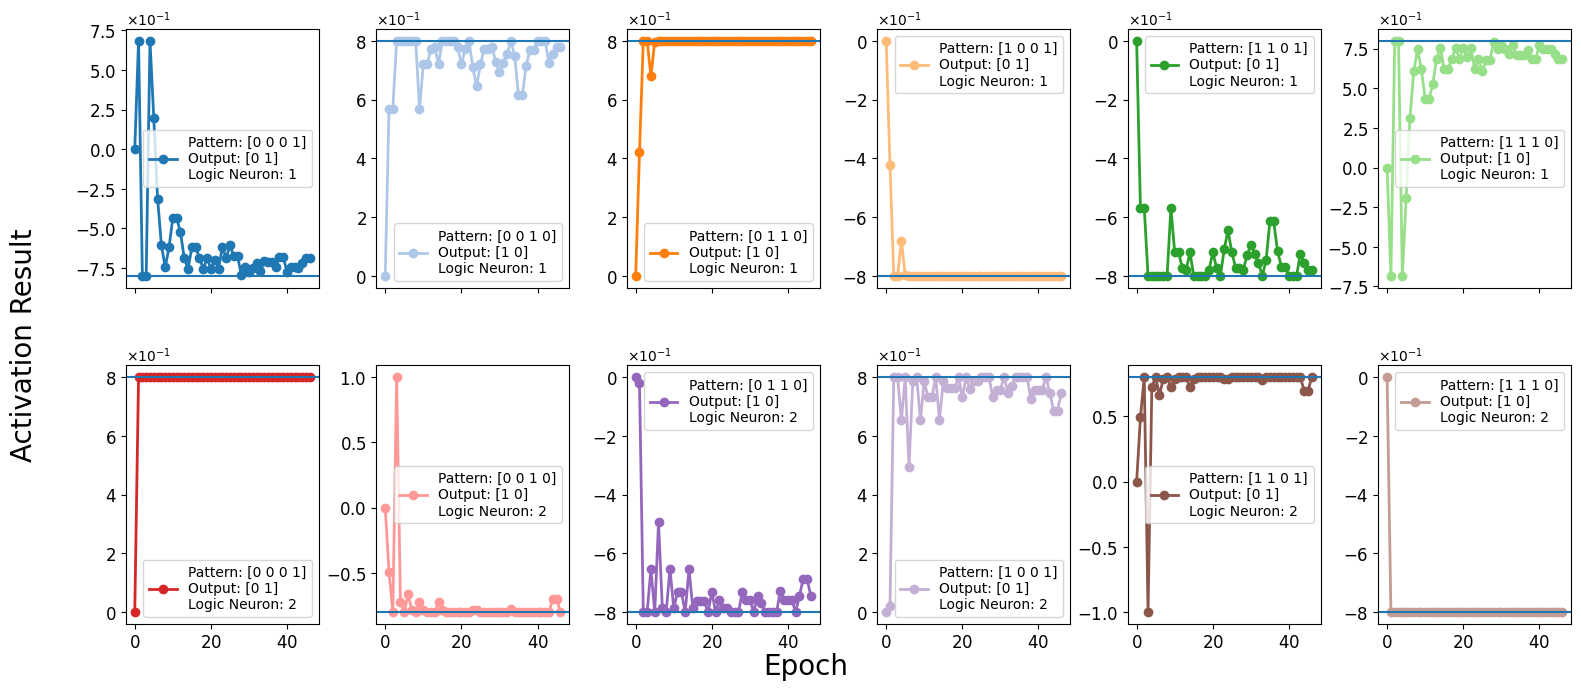
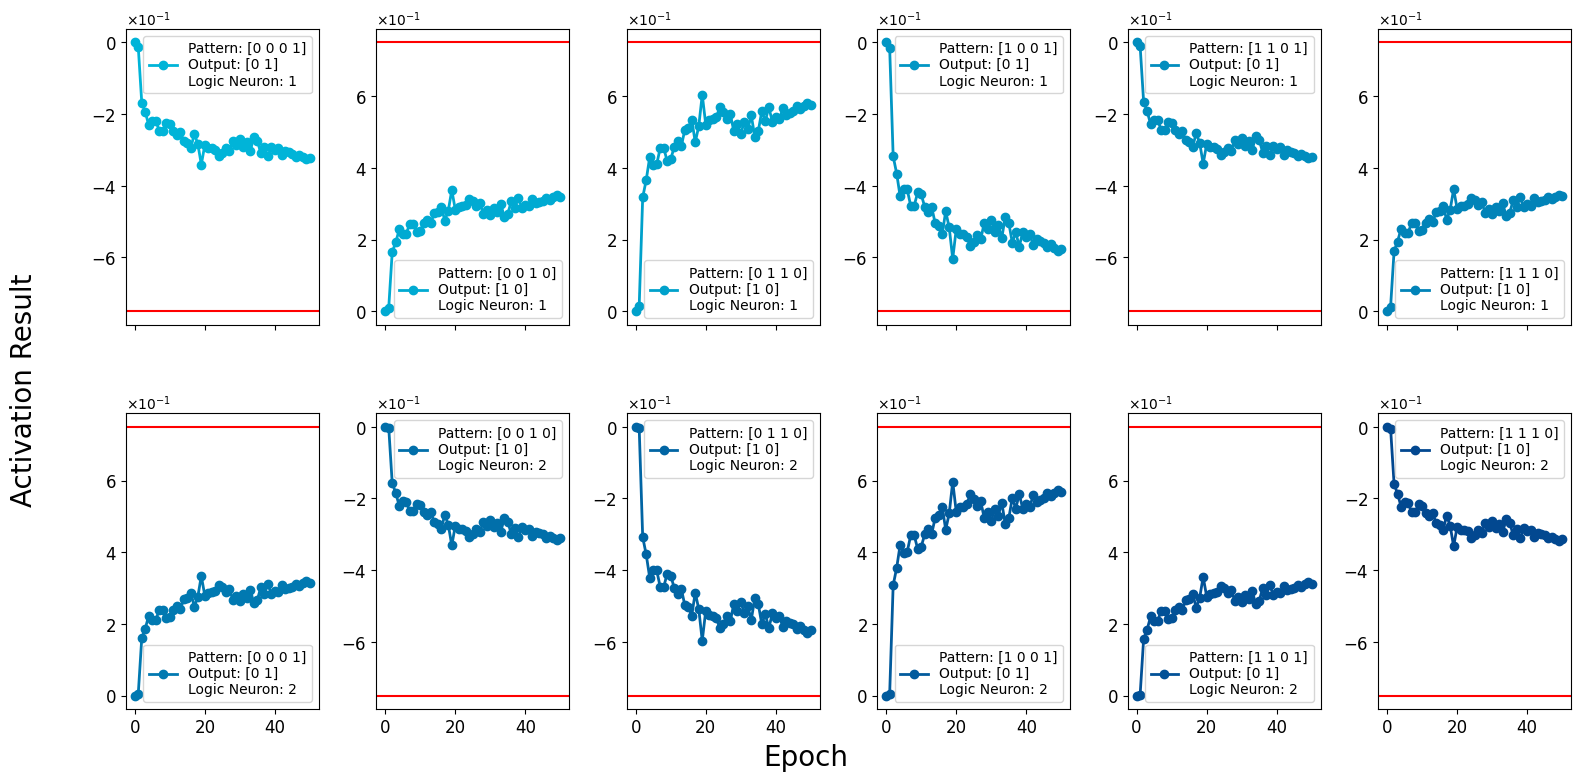
fix: Corrected documentation and example graphs to account for the dataset and srandom shift generation changes

diff --git a/docs/source/Appendix.md b/docs/source/Appendix.md
@@ -73,11 +73,11 @@ All these steps are summarized in the following picture [[2]](#references):
 
 ## Python Simulation
 
-In this work, we present the implementation of a Python class that simulates the ***in-situ*** training process of a physical device. To replicate the role of synaptic depression and potentiation, an experimental dataset of conductances (similar to the one shown in Figure 2a, 2V, 50ms) has been used. Additionally, to achieve a sufficient dynamic range and account for device-to-device variation, the conductances are initialized and updated as follows:
+In this work, we present the implementation of a Python class that simulates the ***in-situ*** training process of a physical device. To replicate the role of synaptic depression and potentiation, the experimental dataset of conductances shown in Figure 2a (2V, 50ms) has been used. Additionally, to achieve a sufficient dynamic range and account for device-to-device variation, the conductances are initialized and updated as follows:
 
 $$G_{ij} = K \times [(G_{exp}(m) - G_{exp}(0)) + shift_{ij}]$$
 
-Where $K$ is a multilication factor while $shift_{ij}$ was obtained using a random exponential distribution similar to that of the physical device.
+Where $K$ is a multilication factor while $shift_{ij}$ was obtained using a random lognormal distribution similar to that of the physical device. 
 
 ## Examples 
 
@@ -85,23 +85,23 @@ Below are examples of output graphs from a simulation that successfully converge
 
 <center>
 <div style="text-align: center;">
-    <img src="_static/conds_18ep.png" alt="conductances" width="800">
+    <img src="_static/conds_19.png" alt="conductances" width="800">
 </div>
 
 <div style="text-align: center;">
-    <img src="_static/logw.png" alt="logic_weights" width="800">
+    <img src="_static/weights_19.png" alt="logic_weights" width="800">
 </div>
 
 <div style="text-align: center;">
-    <img src="_static/activ_18ep.png" alt="activations" width="800">
+    <img src="_static/activ_19.png" alt="activations" width="800">
 </div>
 
 <div style="text-align: center;">
-    <img src="_static/error.png" alt="error" width="600">
+    <img src="_static/error_19.png" alt="error" width="600">
 </div>
 
 <div style="text-align: center;">
-    <img src="_static/3d.png" alt="3d" width="400">
+    <img src="_static/final_19.png" alt="3d" width="400">
 </div>
 </center>
 
@@ -113,7 +113,7 @@ And here are examples from a simulation that did not converge after the default 
 </div>
 
 <div style="text-align: center;">
-    <img src="_static/nonconv_synoutput.png" alt="logic_weights_nonconv" width="800">
+    <img src="_static/nonconv_weights.png" alt="logic_weights_nonconv" width="800">
 </div>
 
 <div style="text-align: center;">

diff --git a/docs/source/Usage.md b/docs/source/Usage.md
@@ -16,12 +16,14 @@ There are two recommended ways to use the fit method, as demonstrated in the exa
 1. **Single Simulation**: This approach performs a single simulation, generating plots and printing information that helps monitor the training process. 
 2. **Multiple Simulations**: This method utilizes a for loop, disabling plots and prints while enabling data saving for the shifts. The data is automatically saved in two separate folders based on whether the simulation converged or not. 
 
-By using this approach, if the simulation converges, you can take the saved shifts and utilize the custom shift option in the fit method. This allows you to check convergence again while plotting the data. <br>
+By using this approach, if the simulation converges, the user can take the saved shifts and utilize the custom shift option in the fit method. This allows to check convergence again while plotting the data. <br>
 
 ```{note}
 **Note:** Running the code directly creates a folder named `dd/mm/yy` containing the results.
 To perform a single simulation, comment out the last two lines of the `training_simulation.py` code.
 ```
+
+Extensive studies have shown that the convergence of training is closely tied to the relationship between the dataset's on/off ratio and the range of the shifts. Specifically, the on/off ratio must be significantly larger than the shift range to ensure effective training. Therefore, users are encouraged to carefully configure the parameters of the lognormal shifts.
 
 <div class="github-badge">
 <a href="https://github.com/cateru/Memristor_Crossbar_Training_Class">
